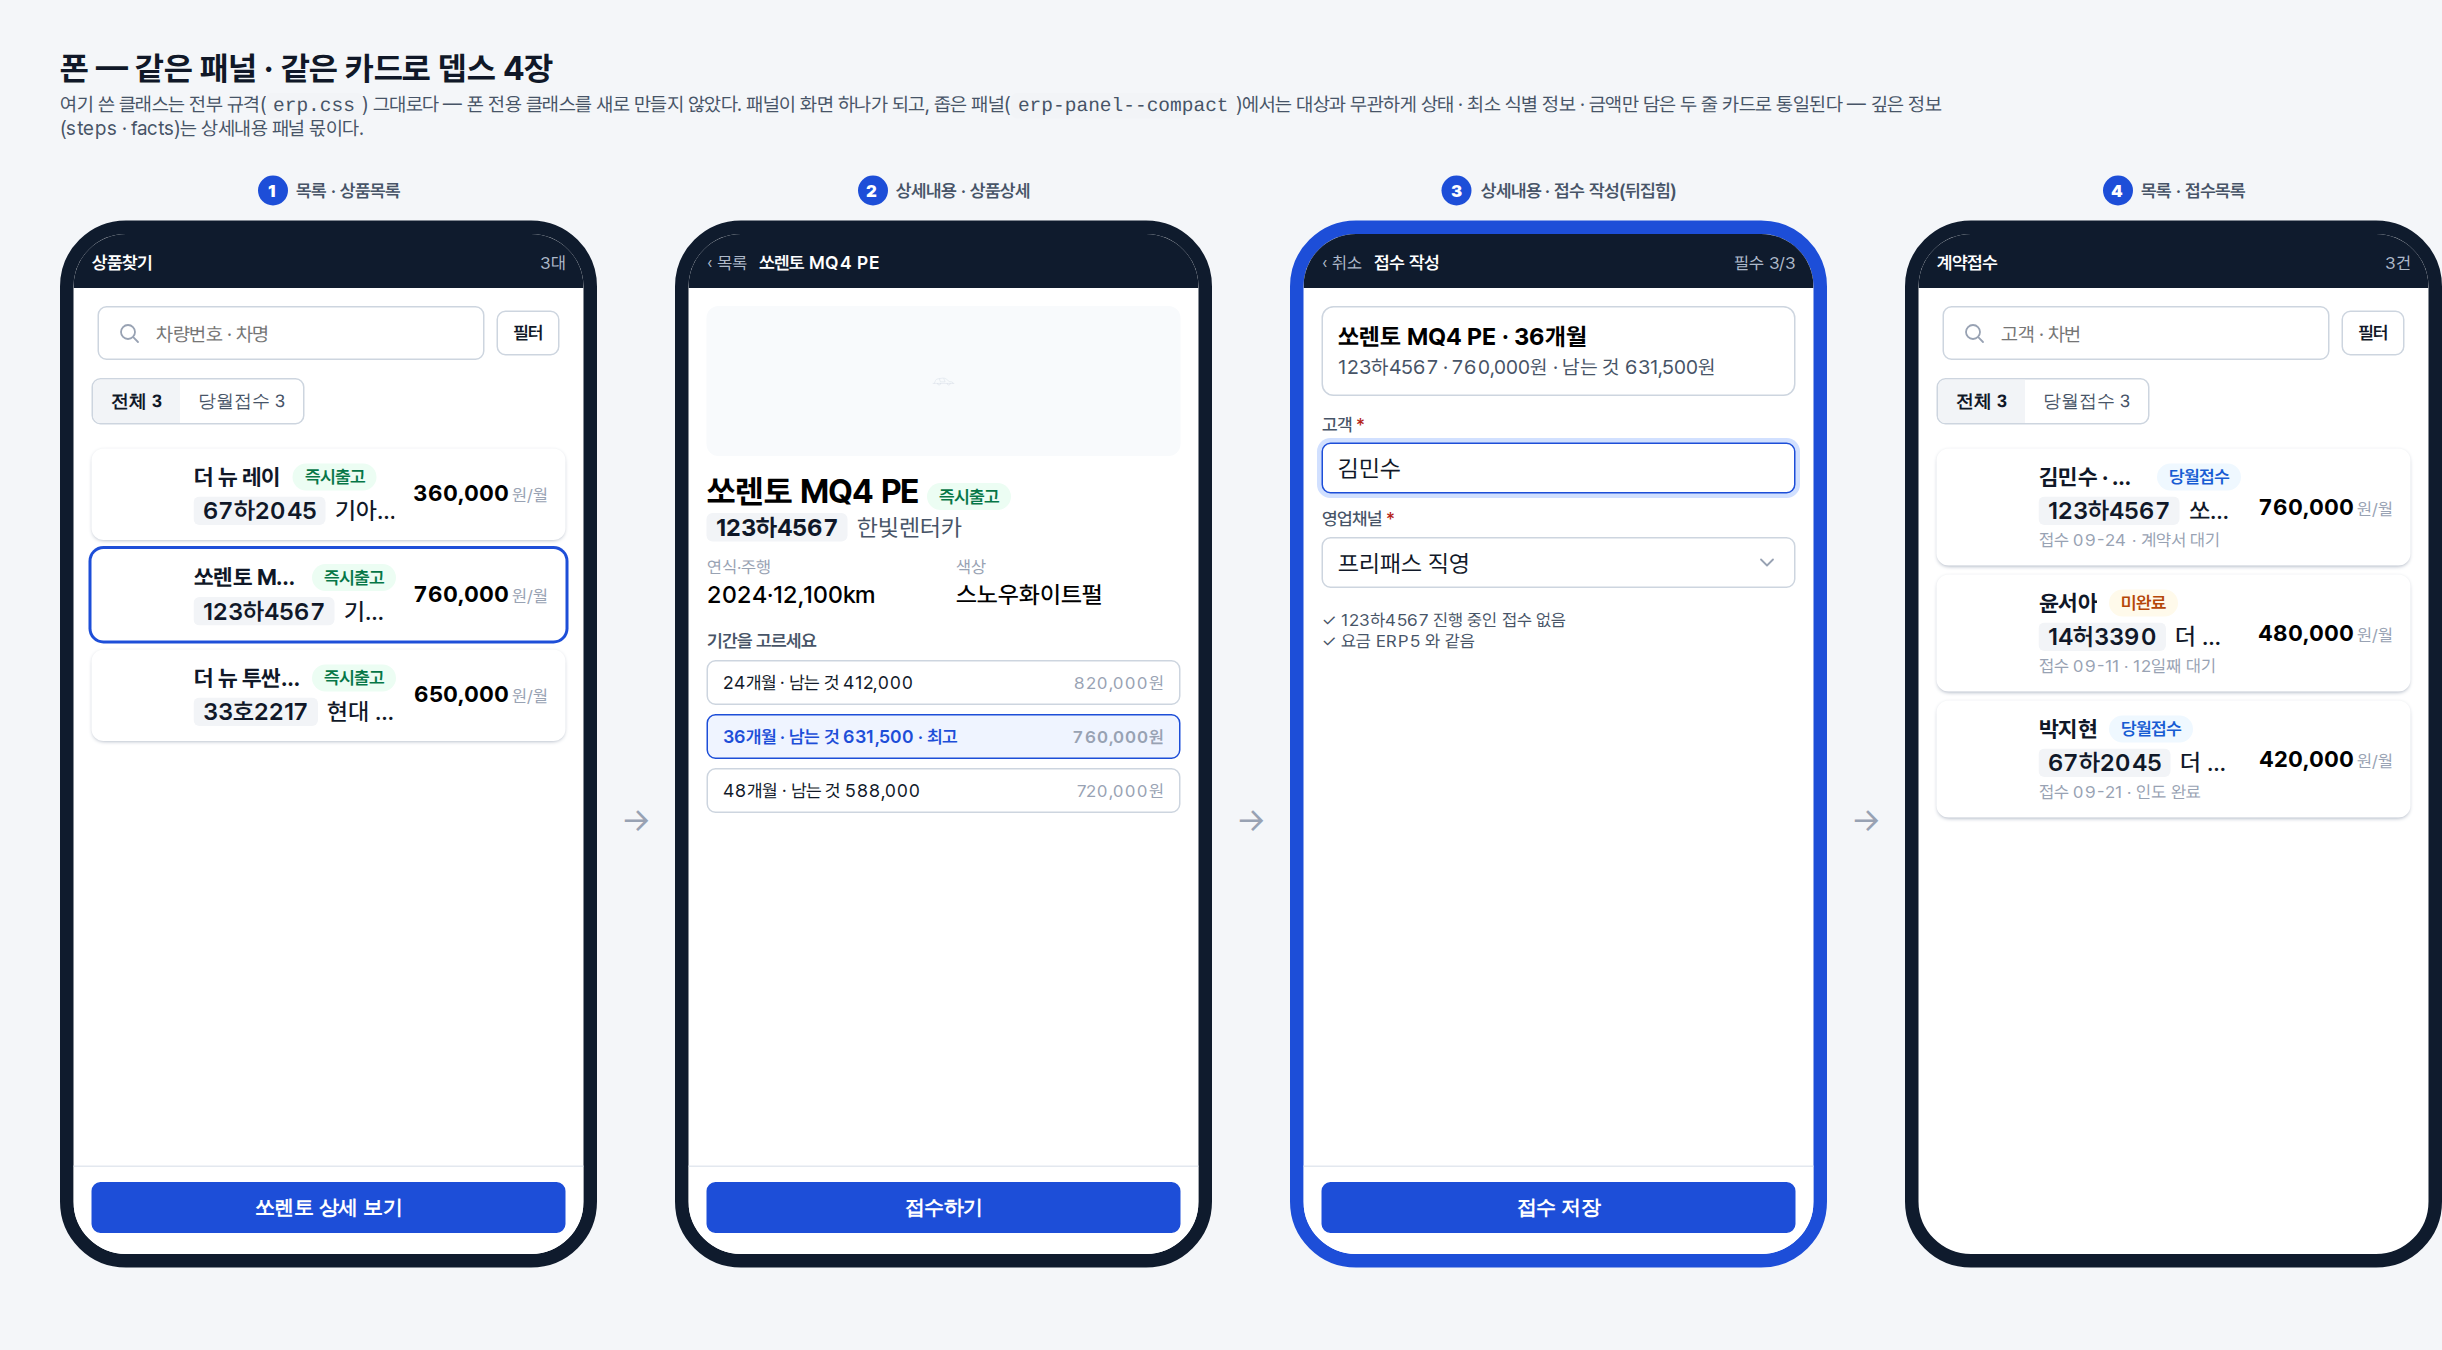
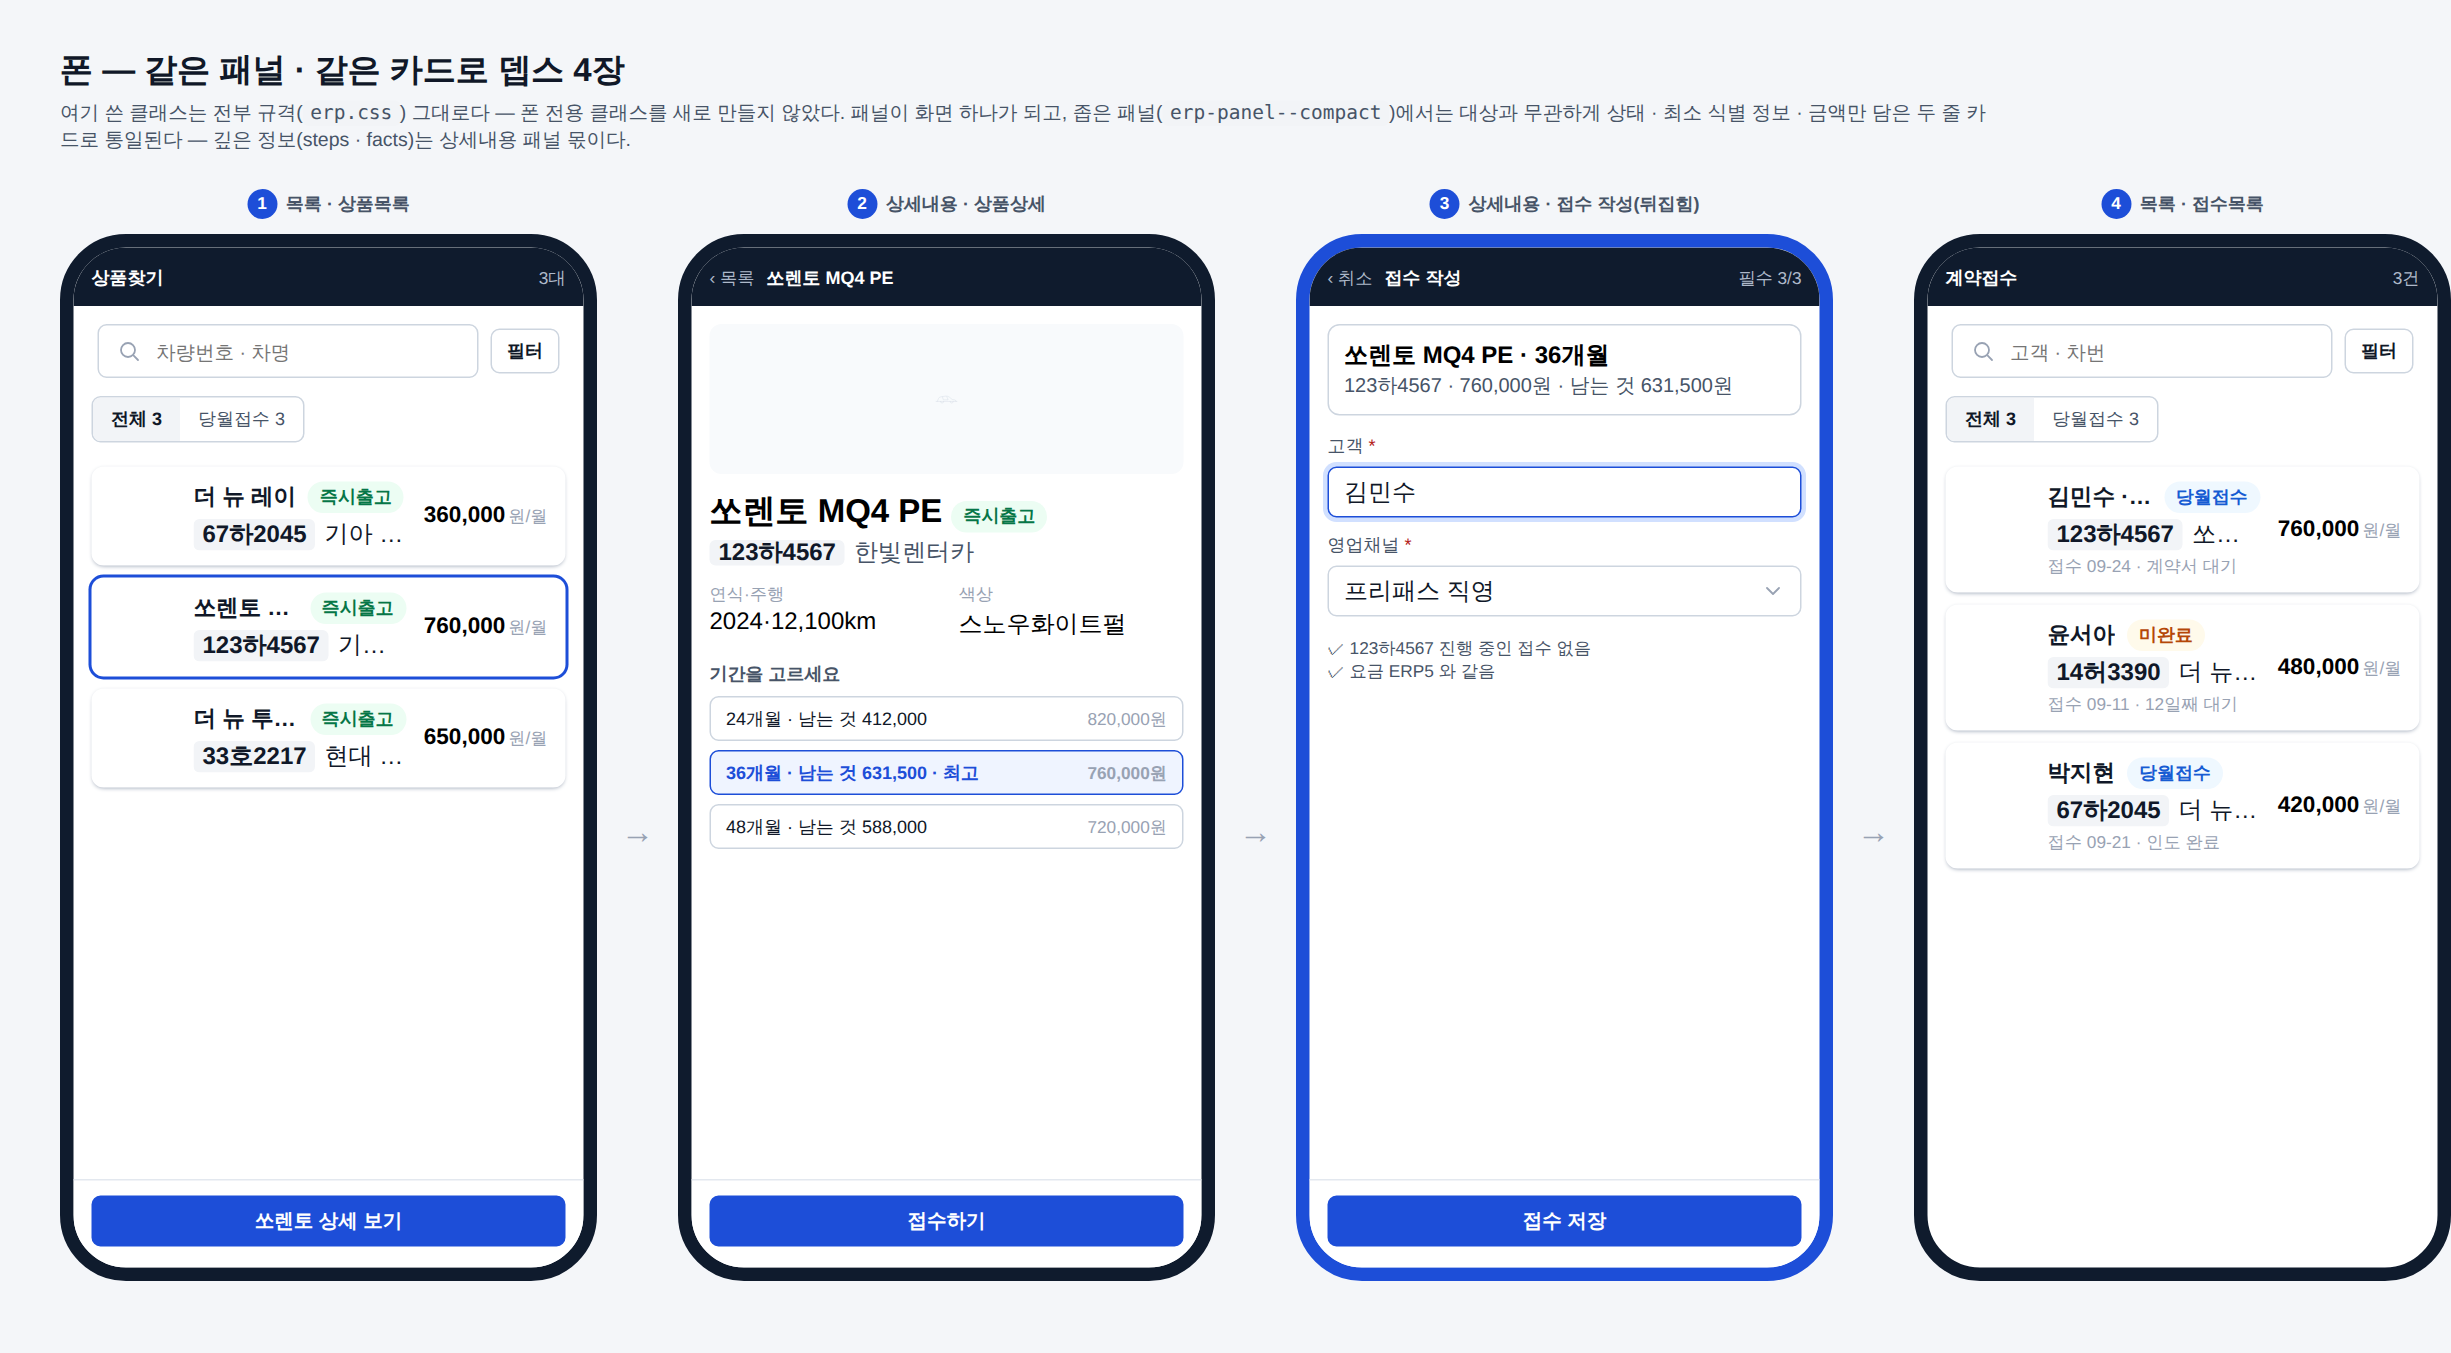
간격(패널 사이 · 세로 리듬 · 카드 사이)을 넉 단 토큰으로 고정
대표 2026-09-24: "공통 틀은 패널 안에 동일한 규격으로 카드 형태로 모든
내용을 담는다, 패널과 패널 사이 간격과 패널에 들어간 카드와 카드 간격
사이도 다 잡아야 돼 … 검색창 퀵 필터 버튼 그 안에 목록 카드 간격이
규격에 맞지 않아"

erp:check는 색·글자 크기·모서리만 토큰을 강제하고 간격(padding·gap)은
검사하지 않아 erp-toolbar(10px) · erp-panel-head(12px) · erp-rowcards
(10px) · 좁은 목록 erp-rowcards(6px)가 각각 날것 값으로 벌어져 있었다.
전부 var(--erp-sp-*)로 바꾸고 넉 단으로 고정했다 — 패널 사이 16px,
패널 내부 세로 리듬(머리·검색창·퀵필터) 12px, 카드 사이(목록·상세 공통)
8px, 상세내용 패널의 카드 묶음 사이 20px. README §5-4에 규격표로 남겨
새 화면을 만들 때 값을 고르지 않고 표에서 찾아 쓰게 했다.

Claude-Session: https://claude.ai/code/session_01VHqvSXhUy82o1cFFrYMP3F

diff --git a/design/erp-standard/erp.css b/design/erp-standard/erp.css
@@ -195,7 +195,7 @@
 .erp-field-error { color: var(--erp-color-err); font-size: var(--erp-fs-caption); }
 
 /* ⑦ 데이터 그리드 */
-.erp-toolbar { display: flex; align-items: center; gap: var(--erp-sp-2); padding: 10px var(--erp-sp-4); border-bottom: 1px solid var(--erp-color-line); }
+.erp-toolbar { display: flex; align-items: center; gap: var(--erp-sp-2); padding: var(--erp-sp-3) var(--erp-sp-4); border-bottom: 1px solid var(--erp-color-line); }
 .erp-toolbar-spacer { flex: 1; }
 .erp-selection { padding: 5px 10px; border-radius: var(--erp-r-md); background: var(--erp-color-primary-weak); color: var(--erp-color-primary); font-weight: var(--erp-fw-semibold); }
 .erp-chip { display: inline-flex; align-items: center; gap: 6px; padding: var(--erp-sp-1) 10px; border-radius: var(--erp-r-pill); background: var(--erp-color-neutral-bg); color: var(--erp-color-text-2); font-size: var(--erp-fs-label); }
@@ -366,7 +366,7 @@
  *   카드 한 장을 네 칸으로 나눈다: 누구·무슨 차(id) · 어디까지 왔나(steps) · 조건(facts) · 돈(amount) + 열기(go).
  *   왼쪽 띠 색 = 상태(data-tone). 좁은 창 · 폰에서는 칸이 위아래로 쌓인다 — 같은 마크업이 폰까지 간다.
  *   카드 전체를 누르면 열린다(.erp-rowcard-link 가 카드를 덮는다). 고른 카드는 aria-current="true". */
-.erp-rowcards { flex: 1; min-height: 0; overflow: auto; display: flex; flex-direction: column; gap: 10px; padding: var(--erp-sp-4); background: var(--erp-color-sunken); }
+.erp-rowcards { flex: 1; min-height: 0; overflow: auto; display: flex; flex-direction: column; gap: var(--erp-sp-2); padding: var(--erp-sp-4); background: var(--erp-color-sunken); }
 .erp-rowcards-group { margin: 6px 0 0; color: var(--erp-color-text-2); font-size: var(--erp-fs-label); font-weight: var(--erp-fw-semibold); }
 .erp-rowcards-group:first-child { margin-top: 0; }
 .erp-rowcards-group small { margin-left: 6px; color: var(--erp-color-text-3); font-size: var(--erp-fs-caption); font-weight: var(--erp-fw-regular); }
@@ -427,7 +427,7 @@
  *   대상(상품 · 접수 · 실적 · 정산)이 달라도 패널의 틀은 같고, 안의 카드 내용만 §5-5 를 따라 바뀐다. */
 .erp-panel { display: flex; flex-direction: column; min-height: 0; border: 1px solid var(--erp-color-line); border-radius: var(--erp-r-lg); background: var(--erp-color-surface); box-shadow: 0 8px 22px -18px var(--erp-color-text-3); overflow: hidden; }
 .erp-panel--flip { border: 2px solid var(--erp-color-primary); box-shadow: 0 0 0 4px var(--erp-color-focus-ring); }
-.erp-panel-head { display: flex; align-items: center; gap: var(--erp-sp-2); padding: 12px var(--erp-sp-4); border-bottom: 1px solid var(--erp-color-line); }
+.erp-panel-head { display: flex; align-items: center; gap: var(--erp-sp-2); padding: var(--erp-sp-3) var(--erp-sp-4); border-bottom: 1px solid var(--erp-color-line); }
 .erp-panel-kind { padding: 2px 8px; border-radius: var(--erp-r-sm); background: var(--erp-color-neutral-bg); color: var(--erp-color-text-2); font-size: var(--erp-fs-caption); font-weight: var(--erp-fw-semibold); }
 .erp-panel-head h2 { margin: 0; font-size: var(--erp-fs-section); font-weight: var(--erp-fw-bold); }
 .erp-panel-head span { margin-left: auto; color: var(--erp-color-text-3); font-size: var(--erp-fs-caption); }
@@ -443,7 +443,7 @@
  * 보조적인 거를 쓰면 되잖아 나중에 그 항목은 바꾸더라도」) — 메인줄(erp-rowcard-title)은 이 카드가
  * 무엇/누구인지 + 상태(뱃지), 보조줄(erp-rowcard-car — 이름은 차량 맥락에서 왔지만 정산 · 실적처럼
  * 차가 없는 대상에서는 그 대상의 보조 식별 정보로 자연히 대체된다)은 메인줄을 보완하는 한 줄이다. */
-.erp-panel--compact .erp-rowcards { padding: var(--erp-sp-2) var(--erp-sp-3) var(--erp-sp-3); gap: 6px; background: transparent; }
+.erp-panel--compact .erp-rowcards { padding: var(--erp-sp-2) var(--erp-sp-3) var(--erp-sp-3); gap: var(--erp-sp-2); background: transparent; }
 /* 좁은 카드는 테두리 선 대신 그림자로 구분한다(대표 2026-09-24 「이 카드가 라인이 없이 좀 구분이
  * 됐으면 좋겠다」) — sunken 배경(erp-rowcards) 위에 surface 배경 카드가 옅은 그림자로 떠 보이면
  * 선 없이도 카드 하나하나가 또렷이 갈린다. 골랐을 때(aria-current)는 Primary 색 그림자 테로 표시한다. */

diff --git a/design/erp-standard/README.md b/design/erp-standard/README.md
@@ -157,6 +157,24 @@
 깊은 정보는 카드에 넣지 않고 상세내용 패널로 미룬다** — 상세내용 패널만 `erp-props` 로 그 정보를 편다. 목록 카드를
 고칠 때마다 "이게 상태 판단에 필요한가, 상세 작업에만 필요한가"로 가른다.
 
+**간격 규격 — 패널 사이 · 패널 안 세로 리듬 · 카드 사이, 넉 단으로 고정** (대표 2026-09-24 「공통 틀은
+패널 안에 동일한 규격으로 카드 형태로 모든 내용을 담는다, 그리고 그 패널과 패널 사이 간격과 패널에 들어간
+카드와 카드 간격 사이도 다 잡아야 돼 … 검색창 퀵 필터 버튼 그 안에 목록 카드 간격이 규격에 맞지 않아」).
+지금까지 색 · 글자 크기 · 모서리는 `npm run erp:check`가 토큰만 쓰도록 막아 왔는데, **간격(padding · gap)은
+검사 대상이 아니어서 `erp-toolbar`가 `10px`, `erp-panel-head`가 `12px`, `erp-rowcards`가 `10px`,
+좁은 목록의 `erp-rowcards`가 `6px`처럼 토큰(`var(--erp-sp-*)`)을 안 쓴 날것 값으로 제각각 벌어져 있었다.
+넉 단으로 고정하고 전부 `var(--erp-sp-*)`로 바꿨다 — 새 패널 · 새 카드를 만들 때도 이 표에서 하나만 고르면 된다.
+
+| 단계 | 어디 | 값 | 적용 |
+|---|---|---|---|
+| 패널 사이 | 레이아웃 안에서 패널과 패널 사이 | `var(--erp-sp-4)`(16px) | `sbs-main`/`stack-main` `gap` |
+| 패널 내부 세로 리듬 | 패널 머리 · 검색창 · 퀵 필터 줄의 위아래 패딩 | `var(--erp-sp-3)`(12px) | `erp-panel-head` · `erp-searchbar` · `erp-toolbar` — 셋 다 같은 값이라 검색창에서 퀵 필터로, 퀵 필터에서 카드 목록으로 내려가는 리듬이 고르다 |
+| 카드 사이 간격 | 목록 카드끼리, 상세내용 패널의 카드끼리 — **목록 · 상세 공통** | `var(--erp-sp-2)`(8px) | `erp-rowcards`(원안 · compact 둘 다) · `sv-terms` · `sv-ref-list` |
+| 카드 묶음(섹션) 사이 간격 | 상세내용 패널 안, 슬롯①/②/③처럼 성격이 다른 카드 묶음 사이 — 카드 사이보다 한 단 넓게 띄워 묶음이 갈린다 | `var(--erp-sp-5)`(20px) | `sv-detail-body` |
+
+좌우 여백은 모든 패널이 `var(--erp-sp-4)`(16px) 하나로 통일돼 있다(패널 머리 · 검색창 · 카드 목록 ·
+상세내용 패널 몸 전부 이 값 아니면 이 값에서 나온 내부 카드 패딩). 확인 그림: `images/side-by-side.png`.
+
 ## 5-5. 목록 카드 — 대상별 규격 (FreePass Admin, 대표 2026-09-24)
 
 「목록 카드를 세 줄로 관리하고, 접수 목록에서는 이 접수가 지금 어느 단계인지 명확하게 — 목록 카드 성격별로 정확하게」.
